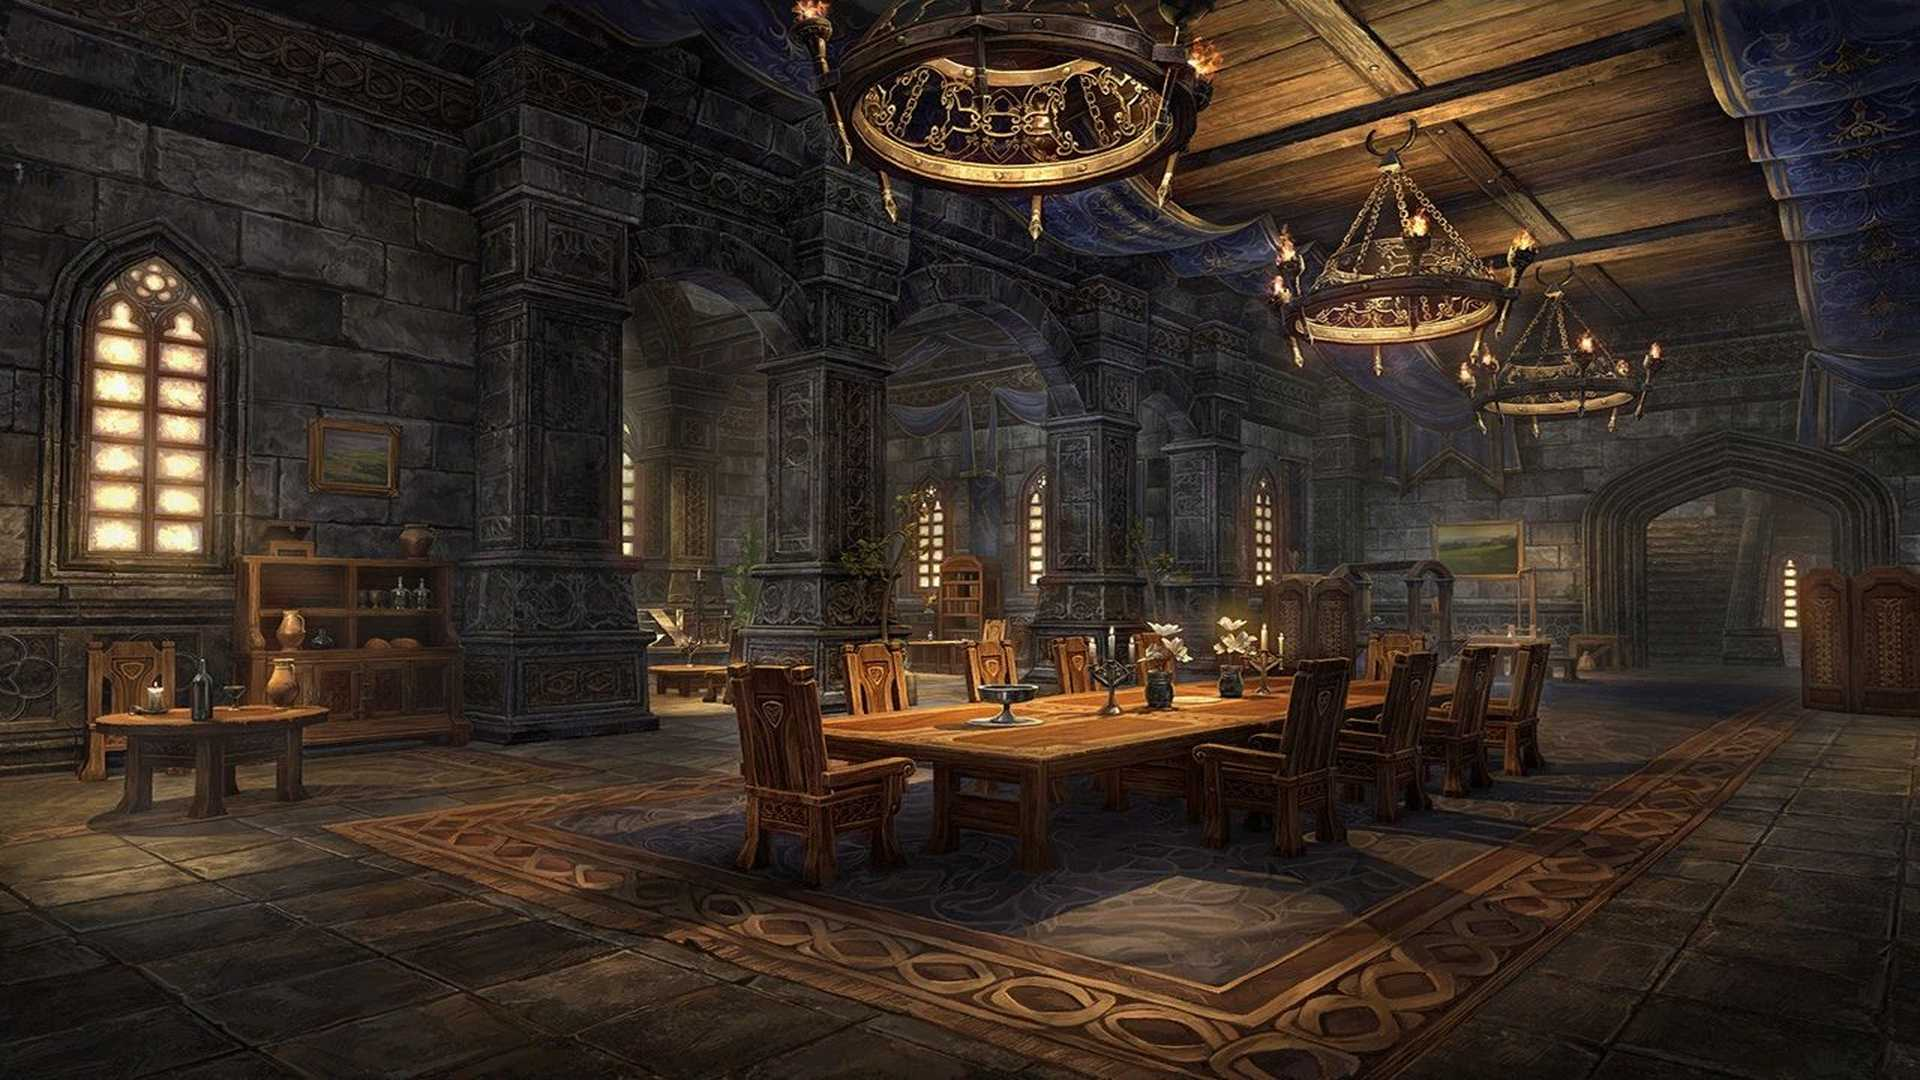
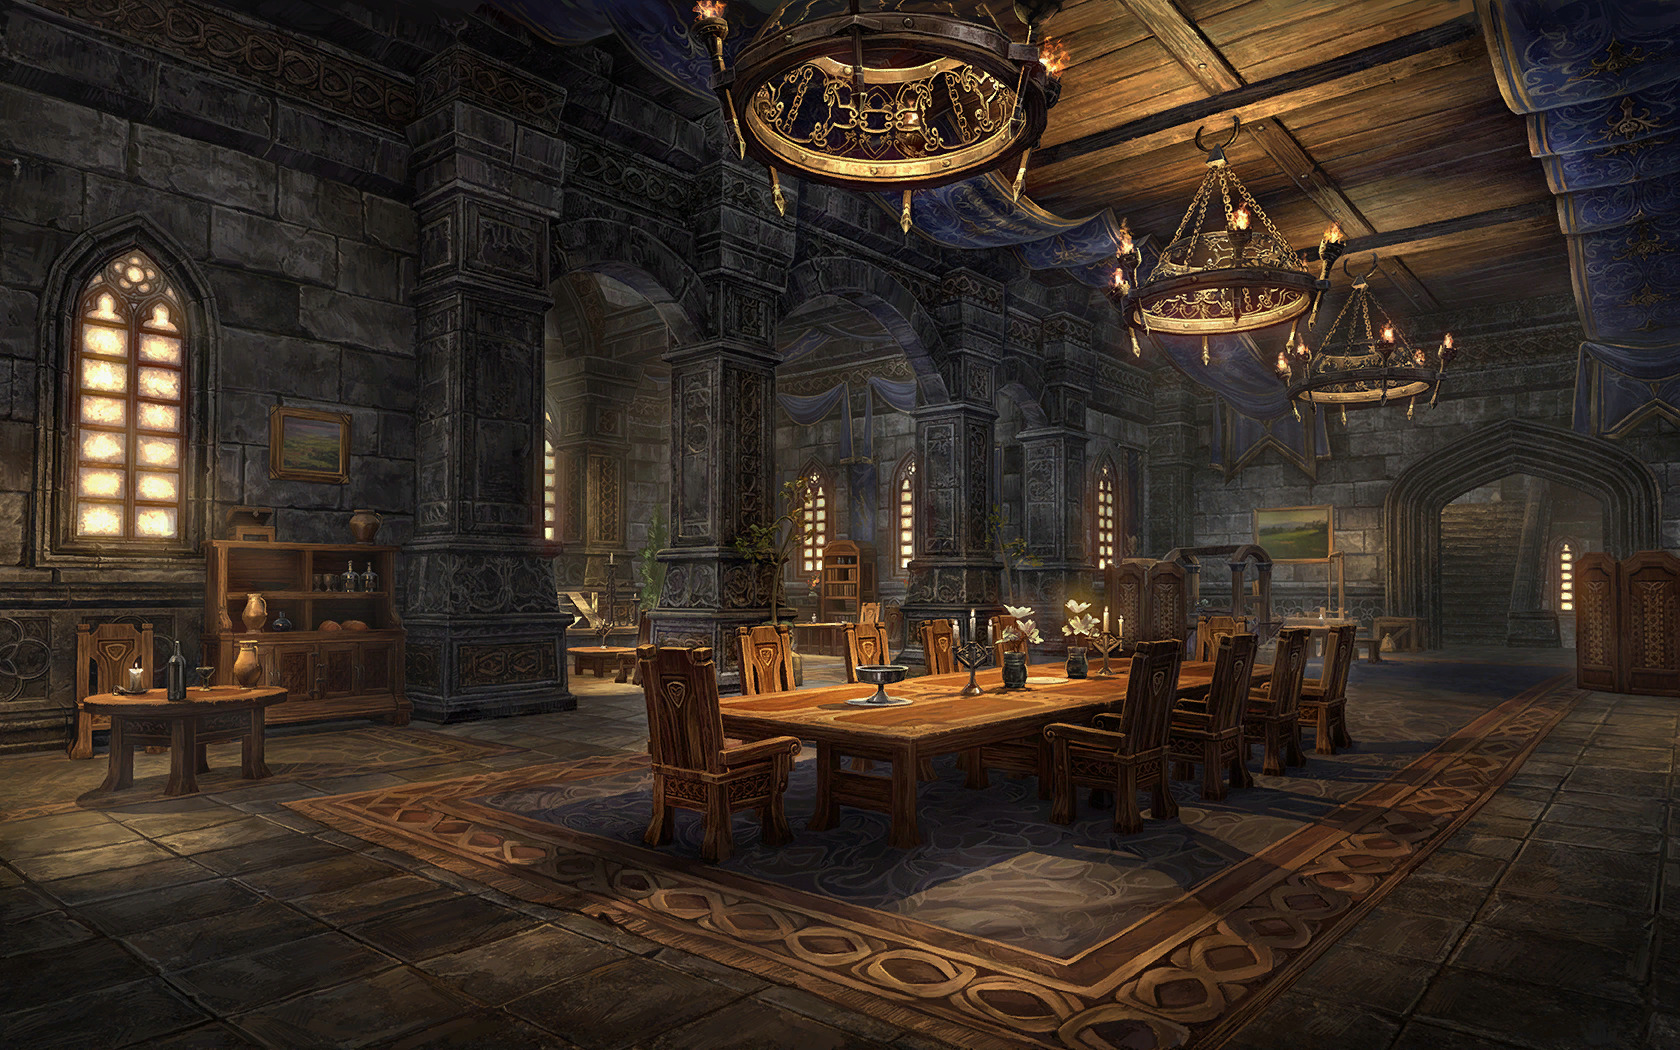
redim img

diff --git a/conseil/css/style.scss b/conseil/css/style.scss
@@ -21,7 +21,7 @@ body {
     width: 2560px;
     top: 0;
     left: 0;
-    background-image: url("../../divers/img/salleDuConseil.jpg");
+    background-image: url("../../divers/img/salleConseil.jpg");
     background-repeat: no-repeat;
     background-size: cover;
   }
@@ -33,7 +33,7 @@ body {
     left: 60%;
     height: calc(4 * 168px);
     width: calc(4 * 105px);
-    background-image: url("../../divers/img/personnages/conseil/adhemar.png");
+    background-image: url("../../divers/img/personnages/conseil/adhemarMin.png");
     background-repeat: no-repeat;
     background-size: cover;
     z-index: 1;
@@ -52,7 +52,7 @@ body {
     left: 23%;
     height: calc(2.4 * 168px);
     width: calc(2.4 * 105px);
-    background-image: url("../../divers/img/personnages/conseil/aleksia.png");
+    background-image: url("../../divers/img/personnages/conseil/aleksiaMin.png");
     background-repeat: no-repeat;
     background-size: cover;
     z-index: 5;
@@ -70,7 +70,7 @@ body {
     left: 7%;
     height: calc(4 * 168px);
     width: calc(4 * 105px);
-    background-image: url("../../divers/img/personnages/conseil/dameAlexandra.png");
+    background-image: url("../../divers/img/personnages/conseil/dameAlexandraMin.png");
     background-repeat: no-repeat;
     background-size: cover;
 
@@ -87,7 +87,7 @@ body {
     left: 31%;
     height: calc(3.6 * 168px);
     width: calc(3.6 * 105px);
-    background-image: url("../../divers/img/personnages/conseil/pereAncelin.png");
+    background-image: url("../../divers/img/personnages/conseil/pereAncelinMin.png");
     background-repeat: no-repeat;
     background-size: cover;
 
@@ -104,7 +104,7 @@ body {
     left: 59.5%;
     height: calc(1.35 * 168px);
     width: calc(1.35 * 105px);
-    background-image: url("../../divers/img/personnages/conseil/jalana.png");
+    background-image: url("../../divers/img/personnages/conseil/jalanaMin.png");
     background-repeat: no-repeat;
     background-size: cover;
     z-index: 5;
@@ -122,7 +122,7 @@ body {
     left: 46%;
     height: calc(1.35 * 168px);
     width: calc(1.35 * 105px);
-    background-image: url("../../divers/img/personnages/conseil/jimmy.png");
+    background-image: url("../../divers/img/personnages/conseil/jimmyMin.png");
     background-repeat: no-repeat;
     background-size: cover;
     z-index: 5;
@@ -140,7 +140,7 @@ body {
     left: 0%;
     height: calc(4.5 * 168px);
     width: calc(4.5 * 105px);
-    background-image: url("../../divers/img/personnages/conseil/laurainSansreproche.png");
+    background-image: url("../../divers/img/personnages/conseil/laurainSansreprocheMin.png");
     background-repeat: no-repeat;
     background-size: cover;
 
@@ -148,7 +148,6 @@ body {
       background-image: url("../../divers/img/personnages/conseil/laurainSansreproche2.png");
       transform: scale(1.05);
       top: 46.1%;
-      left: 0.7%;
     }
   }
   
@@ -159,7 +158,7 @@ body {
     left: 94%;
     height: calc(1.35 * 168px);
     width: calc(1.35 * 105px);
-    background-image: url("../../divers/img/personnages/conseil/precisSansreproche.png");
+    background-image: url("../../divers/img/personnages/conseil/precisSansreprocheMin.png");
     background-repeat: no-repeat;
     background-size: cover;
     z-index: 5;
@@ -178,7 +177,7 @@ body {
     left: 51.2%;
     height: calc(1.15 * 168px);
     width: calc(1.15 * 105px);
-    background-image: url("../../divers/img/personnages/conseil/seleste.png");
+    background-image: url("../../divers/img/personnages/conseil/selesteMin.png");
     background-repeat: no-repeat;
     background-size: cover;
     z-index: 5;
@@ -196,7 +195,7 @@ body {
     left: 88%;
     height: calc(1.25 * 168px);
     width: calc(1.25 * 105px);
-    background-image: url("../../divers/img/personnages/conseil/tenebresSansreproche.png");
+    background-image: url("../../divers/img/personnages/conseil/tenebresSansreprocheMin.png");
     background-repeat: no-repeat;
     background-size: cover;
     z-index: 10;
@@ -214,7 +213,7 @@ body {
     left: 50%;
     height: calc(3.75 * 168px);
     width: calc(3.75 * 105px);
-    background-image: url("../../divers/img/personnages/conseil/tharion.png");
+    background-image: url("../../divers/img/personnages/conseil/tharionMin.png");
     background-repeat: no-repeat;
     background-size: cover;
     z-index: 3;
@@ -232,7 +231,7 @@ body {
     left: 75%;
     height: calc(4 * 168px);
     width: calc(4 * 105px);
-    background-image: url("../../divers/img/personnages/conseil/vaillantSansreproche.png");
+    background-image: url("../../divers/img/personnages/conseil/vaillantSansreprocheMin.png");
     background-repeat: no-repeat;
     background-size: cover;
       

diff --git a/conseil/css/style.css b/conseil/css/style.css
@@ -20,7 +20,7 @@ body {
   width: 2560px;
   top: 0;
   left: 0;
-  background-image: url("../../divers/img/salleDuConseil.jpg");
+  background-image: url("../../divers/img/salleConseil.jpg");
   background-repeat: no-repeat;
   background-size: cover;
 }
@@ -31,7 +31,7 @@ body {
   left: 60%;
   height: 672px;
   width: 420px;
-  background-image: url("../../divers/img/personnages/conseil/adhemar.png");
+  background-image: url("../../divers/img/personnages/conseil/adhemarMin.png");
   background-repeat: no-repeat;
   background-size: cover;
   z-index: 1;
@@ -48,7 +48,7 @@ body {
   left: 23%;
   height: 403.2px;
   width: 252px;
-  background-image: url("../../divers/img/personnages/conseil/aleksia.png");
+  background-image: url("../../divers/img/personnages/conseil/aleksiaMin.png");
   background-repeat: no-repeat;
   background-size: cover;
   z-index: 5;
@@ -64,7 +64,7 @@ body {
   left: 7%;
   height: 672px;
   width: 420px;
-  background-image: url("../../divers/img/personnages/conseil/dameAlexandra.png");
+  background-image: url("../../divers/img/personnages/conseil/dameAlexandraMin.png");
   background-repeat: no-repeat;
   background-size: cover;
 }
@@ -79,7 +79,7 @@ body {
   left: 31%;
   height: 604.8px;
   width: 378px;
-  background-image: url("../../divers/img/personnages/conseil/pereAncelin.png");
+  background-image: url("../../divers/img/personnages/conseil/pereAncelinMin.png");
   background-repeat: no-repeat;
   background-size: cover;
 }
@@ -94,7 +94,7 @@ body {
   left: 59.5%;
   height: 226.8px;
   width: 141.75px;
-  background-image: url("../../divers/img/personnages/conseil/jalana.png");
+  background-image: url("../../divers/img/personnages/conseil/jalanaMin.png");
   background-repeat: no-repeat;
   background-size: cover;
   z-index: 5;
@@ -110,7 +110,7 @@ body {
   left: 46%;
   height: 226.8px;
   width: 141.75px;
-  background-image: url("../../divers/img/personnages/conseil/jimmy.png");
+  background-image: url("../../divers/img/personnages/conseil/jimmyMin.png");
   background-repeat: no-repeat;
   background-size: cover;
   z-index: 5;
@@ -126,7 +126,7 @@ body {
   left: 0%;
   height: 756px;
   width: 472.5px;
-  background-image: url("../../divers/img/personnages/conseil/laurainSansreproche.png");
+  background-image: url("../../divers/img/personnages/conseil/laurainSansreprocheMin.png");
   background-repeat: no-repeat;
   background-size: cover;
 }
@@ -134,7 +134,6 @@ body {
   background-image: url("../../divers/img/personnages/conseil/laurainSansreproche2.png");
   transform: scale(1.05);
   top: 46.1%;
-  left: 0.7%;
 }
 #salleDuConseil .precis {
   position: absolute;
@@ -143,7 +142,7 @@ body {
   left: 94%;
   height: 226.8px;
   width: 141.75px;
-  background-image: url("../../divers/img/personnages/conseil/precisSansreproche.png");
+  background-image: url("../../divers/img/personnages/conseil/precisSansreprocheMin.png");
   background-repeat: no-repeat;
   background-size: cover;
   z-index: 5;
@@ -160,7 +159,7 @@ body {
   left: 51.2%;
   height: 193.2px;
   width: 120.75px;
-  background-image: url("../../divers/img/personnages/conseil/seleste.png");
+  background-image: url("../../divers/img/personnages/conseil/selesteMin.png");
   background-repeat: no-repeat;
   background-size: cover;
   z-index: 5;
@@ -176,7 +175,7 @@ body {
   left: 88%;
   height: 210px;
   width: 131.25px;
-  background-image: url("../../divers/img/personnages/conseil/tenebresSansreproche.png");
+  background-image: url("../../divers/img/personnages/conseil/tenebresSansreprocheMin.png");
   background-repeat: no-repeat;
   background-size: cover;
   z-index: 10;
@@ -192,7 +191,7 @@ body {
   left: 50%;
   height: 630px;
   width: 393.75px;
-  background-image: url("../../divers/img/personnages/conseil/tharion.png");
+  background-image: url("../../divers/img/personnages/conseil/tharionMin.png");
   background-repeat: no-repeat;
   background-size: cover;
   z-index: 3;
@@ -208,7 +207,7 @@ body {
   left: 75%;
   height: 672px;
   width: 420px;
-  background-image: url("../../divers/img/personnages/conseil/vaillantSansreproche.png");
+  background-image: url("../../divers/img/personnages/conseil/vaillantSansreprocheMin.png");
   background-repeat: no-repeat;
   background-size: cover;
 }
